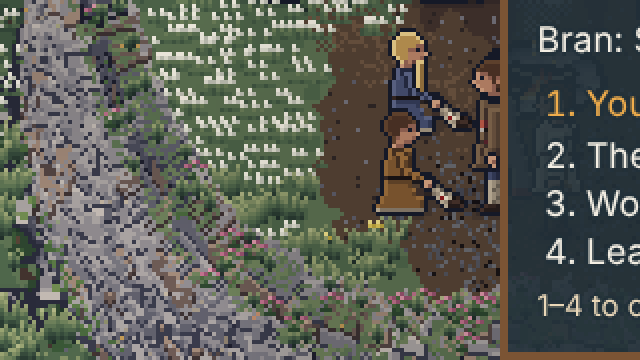
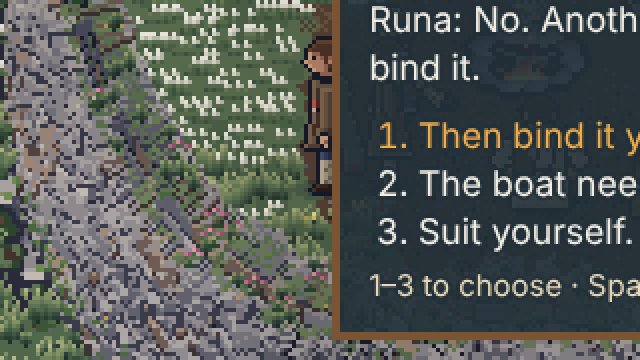
Fourth playtest: the people built - holding still to be bound and Runa's refusal, talk among the household, nudges and Ask for advice, their own hours, boat work spread out and the boat drawn in stages (DH-40 to DH-66); other parts in progress (not yet passing all checks)
Claude-Session: https://claude.ai/code/session_0162ohqVpUJyGNPN8YxrUFhR

diff --git a/src/sim/narrative/story4.ts b/src/sim/narrative/story4.ts
@@ -180,14 +180,44 @@ function startPoint(
 }
 
 /** The point on the exit edge he makes for: straight across from where he is. */
-function exitPoint(map: ZoneMap, a: { x: number; y: number }, way: Edge): { x: number; y: number } {
+function exitPoint(
+  map: ZoneMap,
+  a: { x: number; y: number },
+  way: Edge,
+  along?: number,
+): { x: number; y: number } {
   const W = map.width * map.tile;
   const H = map.height * map.tile;
   const m = map.tile * 0.6;
-  if (way === 'n') return { x: a.x, y: m + 12 };
-  if (way === 's') return { x: a.x, y: H - m };
-  if (way === 'e') return { x: W - m, y: a.y };
-  return { x: m, y: a.y };
+  const x = along ?? a.x;
+  const y = along ?? a.y;
+  if (way === 'n') return { x, y: m + 12 };
+  if (way === 's') return { x, y: H - m };
+  if (way === 'e') return { x: W - m, y };
+  return { x: m, y };
+}
+
+/** Where along the exit edge he runs: away from the steerer, by the start's distance (DH-14). */
+function veer(
+  map: ZoneMap,
+  a: { x: number; y: number },
+  p: { x: number; y: number },
+  way: Edge,
+  tiles: number,
+): number {
+  const T = map.tile;
+  const across = way === 'n' || way === 's';
+  const from = across ? a.x : a.y;
+  const them = across ? p.x : p.y;
+  const span = (across ? map.width : map.height) * T;
+  const away = from >= them ? 1 : -1;
+  return Math.max(2 * T, Math.min(span - 2 * T, from + away * tiles * T));
+}
+
+/** The exit point fixed when he took the box (a fact), or straight ahead. */
+function exitAlong(world: WorldState): number | undefined {
+  const v = world.facts['snatch.exit'];
+  return typeof v === 'number' ? v : undefined;
 }
 
 function atEdge(map: ZoneMap, a: { x: number; y: number }, way: Edge): boolean {
@@ -313,6 +343,7 @@ export function stepSnatch(
     a.carries = o.chest;
     box.pose = 'carried';
     setFact(world, FACT_STAGE, 'AWAY');
+    setFact(world, 'snatch.exit', Math.round(veer(map, a, p, sn.exit, b.startTiles)));
     emit({ type: 'SNATCH', what: 'GRABBED', by, x: a.x, y: a.y });
     emit({ type: 'PERSON_SPOKE', person: by, lineKey: t.grab });
     // Oddi shouts after him, carried or lying where he was set.
@@ -321,7 +352,7 @@ export function stepSnatch(
     return;
   }
   if (stage === 'AWAY') {
-    const goal = exitPoint(map, a, sn.exit);
+    const goal = exitPoint(map, a, sn.exit, exitAlong(world));
     runTo(a, goal.x, goal.y, map, land, b.carryTilesPerSecond, tidalGroundOpen);
     if (box !== undefined) {
       box.x = a.x;
@@ -330,7 +361,11 @@ export function stepSnatch(
     }
     // Run down: he drops it and runs on empty-handed (DH-14).
     // Hands free (Oddi set down) and close enough to lay hold of him.
-    if (onFoot.carrying === null && Math.hypot(a.x - p.x, a.y - p.y) <= b.catchTiles * T) {
+    if (
+      onFoot.carrying === null &&
+      p.moving &&
+      Math.hypot(a.x - p.x, a.y - p.y) <= b.catchTiles * T
+    ) {
       delete a.carries;
       if (box !== undefined) {
         box.pose = 'down';
@@ -364,7 +399,7 @@ export function stepSnatch(
     return;
   }
   // FLEE: empty-handed to the edge, and gone.
-  const goal = exitPoint(map, a, sn.exit);
+  const goal = exitPoint(map, a, sn.exit, exitAlong(world));
   runTo(a, goal.x, goal.y, map, land, b.runTilesPerSecond, tidalGroundOpen);
   if (atEdge(map, a, sn.exit)) {
     removeActor(onFoot, by);

diff --git a/tests/scenario/rescued.test.ts b/tests/scenario/rescued.test.ts
@@ -469,8 +469,8 @@ const ODDI = {
   },
   /**
    * The playtest's way: lifted, carried up the strand and set down there above the tide line, as
-   * Hild was. That is his rescue (decision DE-85): he joins and limps home himself, and the
-   * scavengers have the strongbox, still lying in the wash.
+   * Hild was. That is his rescue (decision DE-85): he joins and limps home himself, and one of the
+   * scavengers takes the strongbox, still lying in the wash, in sight (DH-12).
    */
   strandFirst: (p: Play): void => {
     const bot = p.bot;
@@ -480,6 +480,9 @@ const ODDI = {
     bot.setDown();
     expect(world(p).household.residents).toContain('C_ODDI');
     expect(world(p).facts['search.oddi']).toBe('ODDI_FIRST');
+    // The user's fourth playtest (DH-12 to DH-15): a scavenger takes the strongbox in sight and
+    // runs it up the dunes; once he is over the edge it is the band's.
+    bot.waitFor(() => world(p).facts['ch1.silver_snatch'] !== undefined, 60 * 60);
     expect(world(p).facts['ch1.chest']).toBe('LOST');
     expect(findActor(bot.onFoot, 'ITEM_SHIP_SILVER')).toBeNull();
   },

diff --git a/tests/unit/pt4story.test.ts b/tests/unit/pt4story.test.ts
@@ -389,12 +389,32 @@ describe('the steerer’s word over a body (DH-24 to DH-26)', () => {
     }
     const p = onFoot.player;
     const seen: string[] = [];
+    // An arrow in Svart is pulled first; the word over him comes after (the combat build's rule).
+    onFoot.stuck.push({
+      n: 990,
+      kind: 'arrow',
+      x: 2,
+      y: -2,
+      h: 20,
+      dir: 8,
+      in: 'body',
+      target: 'E_WRECKER_SVART',
+      broken: false,
+      at: 0,
+    });
     for (const id of foes) {
       const a = onFoot.actors[id];
       if (a === undefined) throw new Error(`no ${id}`);
       p.x = a.x + 14;
       p.y = a.y + 2;
       sim.step();
+      if (id === 'E_WRECKER_SVART') {
+        expect(siteOf(offered(world))).toBe('PICK_UP');
+        sim.submit({ type: 'INTERACT' });
+        sim.step();
+        expect(onFoot.stuck.some((s) => s.n === 990)).toBe(false);
+        expect(spoken(events)).toEqual([]);
+      }
       expect(siteOf(offered(world))).toBe('OPENING:remark');
       sim.submit({ type: 'INTERACT' });
       sim.step();

diff --git a/tests/browser/pt4world.spec.ts b/tests/browser/pt4world.spec.ts
@@ -57,6 +57,18 @@ test.describe("the broch's interior, reworked (the user's fourth playtest)", () 
       expect(share).toBeGreaterThanOrEqual(MOTION_THRESHOLD);
     });
 
+  test("under the finished shelter at night, the household's things, smoke and lights stay within the frame budget @budget", async ({
+    page,
+  }) => {
+    await open(page, 'camp=broch&stage=S1&fire=lit&day=2&time=21:30&crew=1&at=35.6,32.2');
+    await motion(page, 33);
+    const ms = Number(await page.locator('.oe-overlay').getAttribute('data-frame-ms'));
+    console.log(`broch at night, script per frame: ${ms.toFixed(2)} ms`);
+    expect(ms).toBeGreaterThan(0);
+    // Book 2's browser budget (as standard.spec.ts): a third of a 60 fps frame.
+    expect(ms).toBeLessThan(5.5);
+  });
+
   test("standing on the steerer's bed after 18:00: the sleep prompt, and a press sleeps", async ({
     page,
   }) => {

diff --git a/tests/unit/controls.test.ts b/tests/unit/controls.test.ts
@@ -233,6 +233,10 @@ describe('use and interact at a tile', () => {
         telemetry: null,
         aims: null,
       });
+    // The world's first tick sets up what is set once (the first raid's meal-sack, needs and
+    // council facts, DH-131 to DH-141; the household's company): taken before comparing.
+    sim.step();
+    events.length = 0;
     const before = world();
     sim.submit({ type: 'INTERACT_AT', tile: { tx: own.tx - 5, ty: own.ty } });
     sim.submit({ type: 'USE_AT', slot: 1, tile: { tx: own.tx + 4, ty: own.ty } });

diff --git a/tests/scenario/searches.test.ts b/tests/scenario/searches.test.ts
@@ -221,6 +221,8 @@ describe('Bran guarding Thorkel’s body: fight, sneak or bargain', () => {
     bot.interact();
     bot.waitFor(() => bot.options().length > 0, 60 * 10);
     expect(bot.options()).toEqual([
+      // A reason for the first raid (DH-142): asking where they came from comes first.
+      'p_steerer.ask.home',
       'p_steerer.search.ketill.threat',
       'p_steerer.search.ketill.leave',
     ]);

diff --git a/tests/unit/art.test.ts b/tests/unit/art.test.ts
@@ -154,6 +154,8 @@ describe('art lint (Book 7 section 11) — Stage 4 acceptance check 1', () => {
       'prop_boards',
       'prop_boulder',
       'prop_camp',
+      // A reason for the first raid (DH-146): the skin boat's Carrick goods as a load.
+      'prop_carrick_goods',
       'prop_chest_open',
       'prop_chest_runa',
       'prop_chest_thorkel',

diff --git a/docs/decision-log.md b/docs/decision-log.md
@@ -994,7 +994,7 @@ Built: requests 1 to 8 and 22 and the shelter prompt (DH-4): the shelter's promp
 | DH-21 | **The first night's lines when he is already found**: if Bran's search is decided before the first night's fire, "Bran will be with Father somewhere" and "Bran went after Father" are said as "Bran brought Father home. Bran never lets go of anything." and "Oddi was by the stern when she broke." (content `rework.story4.fireFound`) | The audit (DH-20): the fold can be reached on the first evening | | 8 (05) |
 | DH-22 | **"Your father's rites": Hild's speech option to start the burial.** With his body home and no rite given, chosen or begun, talking to Hild offers the topic "Your father's rites" (above her other topics), which opens the rites' words (stones, the sea, not yet) wherever she is; the rite then goes on as built. At his bier, the steerer's word over him comes first while his lines last (DH-24); the rites' words at the bier come back after. The chapter run's player now asks Hild through her talk | Request 3: "She gets a speech option to start the burial" | Only by the bier (as built: the user did not find it) | 4 (08), 5 (02), 8 (09) |
 | DH-23 | **The rites' own music** (`content/music/rites.json`, note data for the in-game synthesiser; `MUS_RITES_STONES` and `MUS_RITES_SEA`, new registered IDs): D Aeolian, 50 beats a minute, 8 bars over a drone; the lyre carries the lament's falling line, the choir pad answers a bar behind, falling, a whistle fragment turns upward at the half; the stones have a slow frame-drum walk and a stone set down in the gaps, the sea a drum swell once a bar and a lower choir. It plays from the choice to the rite's end at the rite's place and at the camp; the lament and the sea ending duck it as stingers. Six or seven voices of the eight. Rendered with `npm run audio:render -- story4` (peak, RMS, linear): the stones 0.580, 0.059; the sea 0.481, 0.062 (about -24 dBFS, the quiet end of Book 11's music level, as a rite should be); `SFX_SNATCH` 0.223; `SFX_STEERER_SIGH` 0.057. Measured, not heard | Request 3: "The rites (sea burial or other) get their own music"; Book 11 section 12 | One cue for both (the user named the sea burial "or other": each form its own colour) | 11 (03) |
-| DH-24 | **The steerer's word over a body**: Thorkel's body has three lines, one each look, in order; each fallen foe (a dead body whose fight was the enemy's) one line, once, from a pool of four, never the last line said twice running; once said out, the body is no longer offered. Bodies of the household are not spoken over (no line would fit every death) | Request 4: "Interacting with some bodies (Thorkel's first) gives a short comment from the steerer" | Every body, the household's too (a crew death needs its own lines: later chapters) | 8 (03) |
+| DH-24 | **The steerer's word over a body**: Thorkel's body has three lines, one each look, in order; each fallen foe (a dead body whose fight was the enemy's) one line, once, from a pool of four, never the last line said twice running; once said out, the body is no longer offered. An arrow still in a body is pulled first (Interact takes it, as built), and the word is offered after. Bodies of the household are not spoken over (no line would fit every death) | Request 4: "Interacting with some bodies (Thorkel's first) gives a short comment from the steerer" | Every body, the household's too (a crew death needs its own lines: later chapters) | 8 (03) |
 | DH-25 | **Thorkel's first line comes with his key**: taking the key from his body says his first line | "Thorkel's first" | A separate look (two prompts on one body) | 8 (03) |
 | DH-26 | **How the steerer speaks** (DG-4's convention extended): a `STEERER_SPOKE` event, the line shown as speech under the steerer's name, with `SFX_STEERER_SIGH` (a new registered ID: a slow, soft breath out through the nose) and no blip; the lines tagged `ABOUT_STEERER` so the gendered-word lint reads them, written round any word that could tell the steerer's gender | Book 11 section 08; Book 8 section 03 | The spare shout's sharp breath (wrong for a quiet word) | 8 (03), 11 (08) |
 | DH-27 | **The bodies' prompt is "Look at <name>"** (`ui.prompt.remark`), at the body, within Book 10 remarkReach (1.4 tiles) | Request 4 | "Examine" (not the game's plain words) | 8 (10) |

diff --git a/docs/art/playtest-4/world/README.md b/docs/art/playtest-4/world/README.md
@@ -8,6 +8,9 @@ views by `npm run capture -- playtest-4-world-before`, run once before the rewor
   `broch-compare.png` (and @2x): before (top row) and after (bottom row), view by view.
 - `bed-*.png` (and @4x): the steerer's bed and its mark, by day and night, with the prompt.
 - `sleepers.gif` (0.59 MB) and `sleepers-night.png` (and @4x): the household asleep, breathing under their blankets.
+- `steerer-asleep.png` (and @4x): the steerer lying in their own bed under the madder blanket.
+- `sleeper-poses.gif` and `sheet-prop_sleepers.png` (@4x): every sleeper's pose and breath, from the sheet.
+- `sheet-prop_bed_steerer.png`, `sheet-prop_finds.png`, `sheet-prop_broch_clutter.png` (and @4x): the new sheets at 1x and 4x (authored by `assets/art/authoring/pt4_world_art.py`).
 - `poi-*.png` (and @4x): the new points of interest: strand_cowries, strand_gull_nest, machair_carved_stone, machair_cairn, hagseat_old_offering, cairn_kerbstone, sealcave_seal_skull, sealcave_lost_knife.
 
 ## Motion with the camera still (Book 7 section 14)
